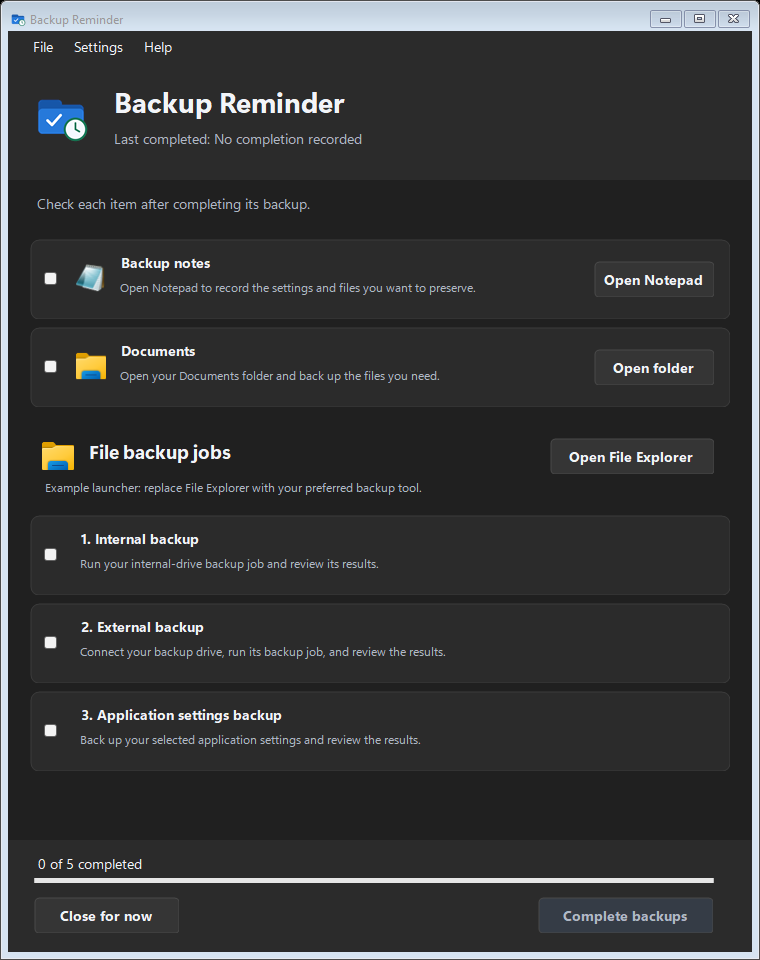
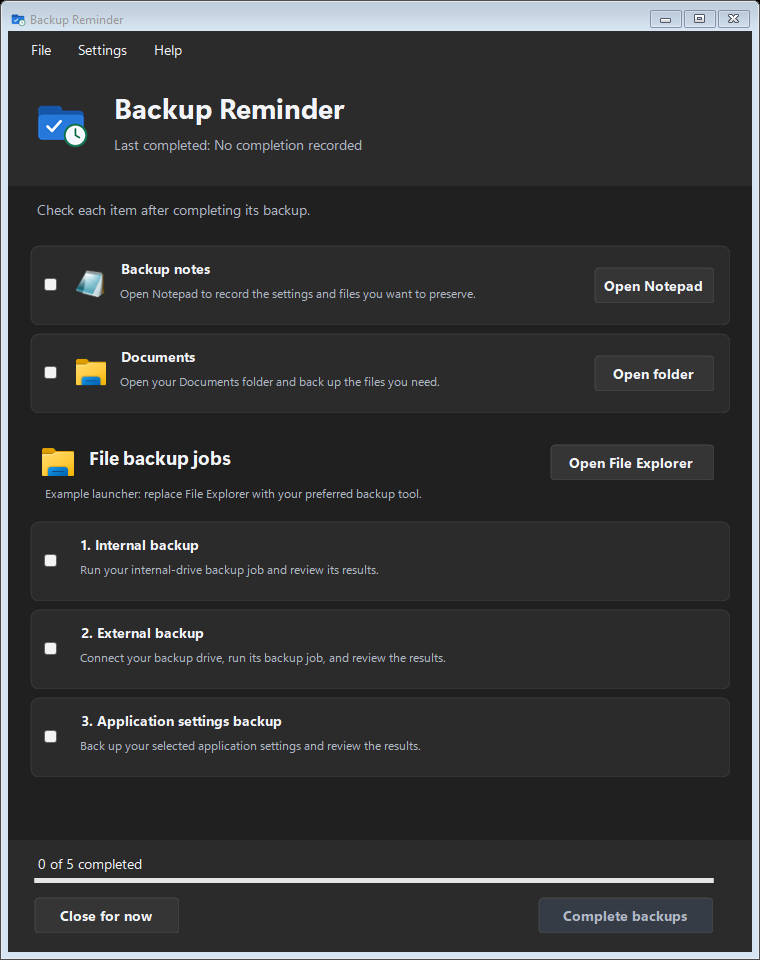
Release v0.3.0 with refined menu styling

diff --git a/src/BackupReminder/ModernControls.cs b/src/BackupReminder/ModernControls.cs
@@ -332,19 +332,105 @@ internal sealed class ScheduleDateTimeInput:Panel
 }
 internal sealed class AppMenuRenderer(ProfessionalColorTable colors,Color accent):ToolStripProfessionalRenderer(colors)
 {
+    internal static void ApplySpacing(ToolStrip strip)
+    {
+        int Scale(int value)=>(int)Math.Round(value*strip.DeviceDpi/96f);
+        strip.Padding=strip is ToolStripDropDown?new Padding(Scale(6)):new Padding(Scale(10),Scale(4),0,Scale(4));
+        strip.ImageScalingSize=new Size(Scale(24),Scale(18));
+        foreach(ToolStripItem item in strip.Items)
+        {
+            if(item is ToolStripSeparator)continue;
+            item.Padding=strip is ToolStripDropDown?new Padding(Scale(12),Scale(9),Scale(20),Scale(9)):new Padding(Scale(7),Scale(3),Scale(7),Scale(3));
+            if(item is ToolStripMenuItem entry&&entry.HasDropDownItems)ApplySpacing(entry.DropDown);
+        }
+    }
+    protected override void OnRenderToolStripBackground(ToolStripRenderEventArgs e)
+    {
+        e.Graphics.Clear(SystemInformation.HighContrast?SystemColors.Menu:e.ToolStrip.BackColor);
+    }
+    protected override void OnRenderImageMargin(ToolStripRenderEventArgs e) { }
+    protected override void OnRenderToolStripBorder(ToolStripRenderEventArgs e)
+    {
+        if(e.ToolStrip is not ToolStripDropDown dropdown)return;
+        Color border=SystemInformation.HighContrast?SystemColors.WindowText:ControlPaint.Light(e.ToolStrip?.BackColor??ColorTable.ToolStripDropDownBackground,.18f);
+        using var pen=new Pen(border);
+        e.Graphics.DrawRectangle(pen,0,0,dropdown.Width-1,dropdown.Height-1);
+    }
+    protected override void OnRenderMenuItemBackground(ToolStripItemRenderEventArgs e)
+    {
+        if(!e.Item.Enabled||!(e.Item.Selected||e.Item.Pressed))return;
+        bool highContrast=SystemInformation.HighContrast;
+        using var fill=new SolidBrush(highContrast?SystemColors.Highlight:ColorTable.MenuItemSelected);
+        float scale=(e.ToolStrip?.DeviceDpi??96)/96f;
+        var bounds=new RectangleF(2*scale,scale,VisibleItemWidth(e.Item)-4*scale,e.Item.Height-2*scale);
+        if(bounds.Width<=0||bounds.Height<=0)return;
+        var state=e.Graphics.Save();
+        e.Graphics.SmoothingMode=SmoothingMode.AntiAlias;
+        using var shape=WindowStyle.Round(bounds,4*scale);
+        e.Graphics.FillPath(fill,shape);
+        e.Graphics.Restore(state);
+    }
+    protected override void OnRenderSeparator(ToolStripSeparatorRenderEventArgs e)
+    {
+        float scale=(e.ToolStrip?.DeviceDpi??96)/96f;
+        Color color=SystemInformation.HighContrast?SystemColors.WindowText:ControlPaint.Light(e.ToolStrip?.BackColor??ColorTable.ToolStripDropDownBackground,.18f);
+        using var pen=new Pen(color);
+        float y=e.Item.Height/2f;
+        e.Graphics.DrawLine(pen,9*scale,y,VisibleItemWidth(e.Item)-9*scale,y);
+    }
+    protected override void OnRenderItemText(ToolStripItemTextRenderEventArgs e)
+    {
+        if(!e.Item.Enabled)e.TextColor=SystemInformation.HighContrast?SystemColors.GrayText:ControlPaint.Light(e.Item.ForeColor,.45f);
+        else if(SystemInformation.HighContrast)e.TextColor=e.Item.Selected||e.Item.Pressed?SystemColors.HighlightText:SystemColors.MenuText;
+        float scale=(e.ToolStrip?.DeviceDpi??96)/96f;
+        var text=e.TextRectangle;
+        if(e.ToolStrip is ToolStripDropDown)
+        {
+            int left=(int)Math.Round(46*scale),right=(int)Math.Round(20*scale);
+            text=new Rectangle(left,0,Math.Max(1,VisibleItemWidth(e.Item)-left-right),e.Item.Height);
+        }
+        else text=new Rectangle(text.X,0,text.Width,e.Item.Height);
+        e.TextRectangle=text;
+        e.TextFormat=(e.TextFormat&~(TextFormatFlags.Top|TextFormatFlags.Bottom))|TextFormatFlags.VerticalCenter|TextFormatFlags.SingleLine;
+        base.OnRenderItemText(e);
+    }
+    static int VisibleItemWidth(ToolStripItem item)=>Math.Min(item.Width,(item.Owner?.ClientSize.Width??item.Width)-item.Bounds.Left);
+    static Rectangle GlyphBounds(ToolStripItem item)
+    {
+        float scale=(item.Owner?.DeviceDpi??96)/96f;
+        int size=(int)Math.Round(18*scale);
+        return new Rectangle((int)Math.Round(14*scale),(item.Height-size)/2,size,size);
+    }
+    protected override void OnRenderItemImage(ToolStripItemImageRenderEventArgs e)
+    {
+        if(e.Image is null)return;
+        var bounds=GlyphBounds(e.Item);
+        if(!e.Item.Enabled)
+        {
+            using var disabled=new Bitmap(e.Image,bounds.Size);
+            ControlPaint.DrawImageDisabled(e.Graphics,disabled,bounds.X,bounds.Y,e.Item.BackColor);
+            return;
+        }
+        var state=e.Graphics.Save();
+        e.Graphics.InterpolationMode=InterpolationMode.HighQualityBicubic;
+        e.Graphics.PixelOffsetMode=PixelOffsetMode.HighQuality;
+        e.Graphics.DrawImage(e.Image,bounds);
+        e.Graphics.Restore(state);
+    }
     protected override void OnRenderItemCheck(ToolStripItemImageRenderEventArgs e)
     {
-        var bounds=e.ImageRectangle;e.Graphics.SmoothingMode=SmoothingMode.AntiAlias;
-        using var pen=new Pen(SystemInformation.HighContrast?SystemColors.MenuText:accent,2);
+        var bounds=GlyphBounds(e.Item);e.Graphics.SmoothingMode=SmoothingMode.AntiAlias;
+        using var pen=new Pen(SystemInformation.HighContrast?(e.Item.Selected?SystemColors.HighlightText:SystemColors.MenuText):accent,2);
         float unit=Math.Max(1,Math.Min(bounds.Width,bounds.Height)/16f);
         float x=bounds.Left+(bounds.Width-11*unit)/2,y=bounds.Top+bounds.Height/2f;
         e.Graphics.DrawLines(pen,[new PointF(x,y),new PointF(x+4*unit,y+4*unit),new PointF(x+11*unit,y-4*unit)]);
     }
     protected override void OnRenderArrow(ToolStripArrowRenderEventArgs e)
     {
-        var bounds=e.ArrowRectangle;float x=bounds.Left+bounds.Width/2f,y=bounds.Top+bounds.Height/2f;
+        var bounds=e.ArrowRectangle;float x=bounds.Left+bounds.Width/2f,y=(e.Item?.Height??bounds.Height)/2f;
+        if(e.Item is not null)x=Math.Min(x,VisibleItemWidth(e.Item)-12*(e.Item.Owner?.DeviceDpi??96)/96f);
         float size=Math.Max(2,Math.Min(bounds.Width,bounds.Height)/4f);
-        var color=SystemInformation.HighContrast?SystemColors.MenuText:e.Item?.ForeColor??e.ArrowColor;
+        var color=e.Item is {Enabled:false}?SystemColors.GrayText:SystemInformation.HighContrast?(e.Item?.Selected==true?SystemColors.HighlightText:SystemColors.MenuText):e.Item?.ForeColor??e.ArrowColor;
         using var pen=new Pen(color,1.5f);e.Graphics.SmoothingMode=SmoothingMode.AntiAlias;
         PointF[] points=e.Direction switch
         {

diff --git a/src/BackupReminder/MenuGlyphs.cs b/src/BackupReminder/MenuGlyphs.cs
@@ -2,45 +2,46 @@ using System.Drawing.Drawing2D;
 
 namespace BackupReminder;
 
-// Original line artwork, rendered locally in the current menu text color.
+// Original line artwork; shared command shapes match BroadcastForge.
 internal static class MenuGlyphs
 {
     internal static Bitmap Create(string glyph,Color color)
     {
-        var image=new Bitmap(32,32);
-        using var graphics=Graphics.FromImage(image);graphics.ScaleTransform(2,2);
+        var image=new Bitmap(64,64);
+        using var graphics=Graphics.FromImage(image);graphics.ScaleTransform(4,4);
         graphics.SmoothingMode=SmoothingMode.AntiAlias;
-        using var pen=new Pen(color,1.25f) {StartCap=LineCap.Round,EndCap=LineCap.Round,LineJoin=LineJoin.Round};
+        using var pen=new Pen(color,1.35f) {StartCap=LineCap.Round,EndCap=LineCap.Round,LineJoin=LineJoin.Round};
         using var fill=new SolidBrush(color);
         void Line(float x1,float y1,float x2,float y2)=>graphics.DrawLine(pen,x1,y1,x2,y2);
-        void Circle()=>graphics.DrawEllipse(pen,1.75f,1.75f,12.5f,12.5f);
+        void Lines(params PointF[] points)=>graphics.DrawLines(pen,points);
+        void Circle()=>graphics.DrawEllipse(pen,1,1,14,14);
         switch(glyph)
         {
             case "checklist":
-                using(var border=WindowStyle.Round(new RectangleF(2,1.75f,12,12.5f),1.5f))graphics.DrawPath(pen,border);
-                graphics.DrawLines(pen,[new PointF(4,5),new PointF(5,6),new PointF(7,4)]);Line(9,5,12,5);
-                graphics.DrawLines(pen,[new PointF(4,10),new PointF(5,11),new PointF(7,9)]);Line(9,10,12,10);break;
+                using(var border=WindowStyle.Round(new RectangleF(2,1,12,14),1.5f))graphics.DrawPath(pen,border);
+                Lines(new(4,5),new(5,6),new(7,4));Line(10,5,12,5);
+                Lines(new(4,11),new(5,12),new(7,10));Line(10,11,12,11);break;
             case "exit":
-                graphics.DrawLines(pen,[new PointF(7,2),new PointF(2,2),new PointF(2,14),new PointF(7,14)]);
-                Line(6,8,14,8);graphics.DrawLines(pen,[new PointF(11,5),new PointF(14,8),new PointF(11,11)]);break;
+                Lines(new(6,1),new(1,1),new(1,15),new(6,15));
+                Line(6,8,15,8);Lines(new(11,4),new(15,8),new(11,12));break;
             case "clock":
-                Circle();graphics.DrawLines(pen,[new PointF(8,4),new PointF(8,8),new PointF(11,10)]);break;
+                Circle();Lines(new(8,4),new(8,8),new(11,10));break;
             case "appearance":
-                Circle();graphics.FillPie(fill,3.5f,3.5f,9,9,270,180);Line(8,3.5f,8,12.5f);break;
+                Circle();graphics.FillPie(fill,1,1,14,14,270,180);break;
             case "backup":
             case "restore":
-                graphics.DrawLines(pen,[new PointF(2,6),new PointF(2,14),new PointF(14,14),new PointF(14,6)]);
-                Line(8,2,8,10);
-                graphics.DrawLines(pen,glyph=="backup"?[new PointF(5,7),new PointF(8,10),new PointF(11,7)]:[new PointF(5,5),new PointF(8,2),new PointF(11,5)]);break;
+                Lines(new(2,9),new(2,15),new(14,15),new(14,9));Line(8,1,8,11);
+                if(glyph=="backup")Lines(new(4,7),new(8,11),new(12,7));
+                else Lines(new(4,5),new(8,1),new(12,5));break;
             case "folder":
-                graphics.DrawLines(pen,[new PointF(2,5),new PointF(2,3),new PointF(6,3),new PointF(8,5),new PointF(14,5),new PointF(14,13),new PointF(2,13),new PointF(2,5),new PointF(14,5)]);break;
+                Lines(new(1,4),new(1,2),new(6,2),new(8,4),new(15,4),new(15,14),new(1,14),new(1,4));break;
             case "help":
-                Circle();graphics.DrawArc(pen,5.5f,4,5,4,180,250);Line(8,8,8,9);graphics.FillEllipse(fill,7.4f,11,1.2f,1.2f);break;
+                Circle();graphics.DrawBezier(pen,new(5,5),new(5,1),new(13,3),new(9,7));Line(9,7,8,9);Line(8,12,8,12.2f);break;
             case "report":
-                graphics.DrawPolygon(pen,[new PointF(2,2),new PointF(14,2),new PointF(14,11),new PointF(7,11),new PointF(3,14),new PointF(3,11),new PointF(2,11)]);
-                Line(8,4.5f,8,7);graphics.FillEllipse(fill,7.4f,8.5f,1.2f,1.2f);break;
+                Lines(new(1,2),new(15,2),new(15,11),new(7,11),new(3,15),new(3,11),new(1,11),new(1,2));
+                Line(8,5,8,7);Line(8,9,8,9.2f);break;
             case "about":
-                Circle();graphics.FillEllipse(fill,7.35f,4,1.3f,1.3f);Line(8,7,8,11.5f);break;
+                Circle();Line(8,7,8,12);Line(8,4,8,4.2f);break;
             default:throw new ArgumentException("Unknown menu glyph",nameof(glyph));
         }
         return image;

diff --git a/src/BackupReminder/MainWindow.cs b/src/BackupReminder/MainWindow.cs
@@ -39,6 +39,7 @@ internal sealed partial class MainWindow : Form
     Color Muted => ColorTranslator.FromHtml(dark ? "#B0B8C6" : "#596779");
     Color Accent => ColorTranslator.FromHtml(dark ? "#78B7FF" : "#2468BB");
     Color ButtonColor => ColorTranslator.FromHtml(dark ? "#353535" : "#FAFAFA");
+    Color MenuHover => ColorTranslator.FromHtml(dark ? "#414141" : "#EEEEEE");
     Color DisabledColor => ColorTranslator.FromHtml(dark ? "#353C46" : "#DDE3EB");
 
     public MainWindow(Profile profile, Options options,IReminderScheduler? scheduler=null,IReminderAttention? attention=null)
@@ -222,7 +223,7 @@ internal sealed partial class MainWindow : Form
         WindowStyle.Apply(this,dark);
         foreach (ToolStripMenuItem item in appearanceMenu.DropDownItems) item.Checked = (string?)item.Tag == choice;
         RefreshMenuGlyphs();
-        var renderer=new AppMenuRenderer(new MenuColors(Surface,ButtonColor){UseSystemColors=false},Accent);
+        var renderer=new AppMenuRenderer(new MenuColors(Surface,MenuHover){UseSystemColors=false},Accent);
         menu.Renderer=renderer;
         void ColorMenus(ToolStripItemCollection entries)
         {
@@ -237,7 +238,7 @@ internal sealed partial class MainWindow : Form
                 }
             }
         }
-        ColorMenus(menu.Items); UpdateProgress(); Invalidate(true);
+        ColorMenus(menu.Items); AppMenuRenderer.ApplySpacing(menu); UpdateProgress(); Invalidate(true);
     }
     void ApplyTheme(Control control)
     {
@@ -248,7 +249,7 @@ internal sealed partial class MainWindow : Form
         if (control is LinkLabel link) { link.LinkColor = Accent; link.ActiveLinkColor = Accent; }
         if(control is RoundedPanel card) { card.BorderColor=ColorTranslator.FromHtml(dark?"#3B3B3B":"#E5E5E5");card.Invalidate(); }
         if(control is RoundedButton rounded) { rounded.BorderColor=ColorTranslator.FromHtml(dark?"#4A4A4A":"#DCDCDC");rounded.DisabledTextColor=Muted;rounded.Invalidate(); }
-        if(control is EditorPicker picker) {picker.BackColor=WindowColor;picker.ForeColor=TextColor;picker.Font=body;picker.PickerRenderer=new AppMenuRenderer(new MenuColors(WindowColor,ButtonColor){UseSystemColors=false},Accent);}
+        if(control is EditorPicker picker) {picker.BackColor=WindowColor;picker.ForeColor=TextColor;picker.Font=body;picker.PickerRenderer=new AppMenuRenderer(new MenuColors(WindowColor,MenuHover){UseSystemColors=false},Accent);}
         if(control is ScheduleDateTimeInput dateTime)dateTime.ApplyColors(WindowColor,ButtonColor,TextColor,Muted);
         if(control is ThemeNumberInput number)number.ApplyColors(WindowColor,ButtonColor,TextColor,Muted,Accent);
         if(control is TextBoxBase or ListBox or ComboBox or NumericUpDown) {control.BackColor=WindowColor;control.ForeColor=TextColor;}

diff --git a/src/BackupReminder/ChecklistEditor.cs b/src/BackupReminder/ChecklistEditor.cs
@@ -378,7 +378,7 @@ internal sealed class EditorPicker:RoundedButton
             var item=new ToolStripMenuItem(choices[i].Label){Checked=i==selection,BackColor=BackColor,ForeColor=ForeColor};
             item.Click+=(_,_)=>SelectedIndex=index;menu.Items.Add(item);
         }
-        ContextMenuStrip=menu;menu.Show(this,new Point(0,Height));
+        AppMenuRenderer.ApplySpacing(menu);ContextMenuStrip=menu;menu.Show(this,new Point(0,Height));
     }
     protected override void OnKeyDown(KeyEventArgs e)
     {

diff --git a/src/BackupReminder/InformationWindows.cs b/src/BackupReminder/InformationWindows.cs
@@ -12,7 +12,7 @@ internal sealed partial class MainWindow
     void AddMenuGlyph(ToolStripItem item,string glyph)=>menuGlyphs.Add(item,glyph);
     void RefreshMenuGlyphs()
     {
-        var color=SystemInformation.HighContrast?SystemColors.MenuText:TextColor;
+        var color=SystemInformation.HighContrast?SystemColors.MenuText:ColorTranslator.FromHtml(dark?"#D2D2D2":"#4B5563");
         foreach(var (item,glyph) in menuGlyphs)
         {
             var key=(glyph,color.ToArgb());

diff --git a/README.md b/README.md
@@ -1,10 +1,10 @@
 # Backup Reminder
 
-[![Backup Reminder: A checklist and reminder for the backups you do yourself](assets/backup-reminder-banner.png)](https://github.com/DGX-Development/Backup-Reminder/releases/tag/v0.2.1)
+[![Backup Reminder: A checklist and reminder for the backups you do yourself](assets/backup-reminder-banner.png)](https://github.com/DGX-Development/Backup-Reminder/releases/tag/v0.3.0)
 
 A Windows checklist for the backups you prefer to do yourself. Open your tools, perform each backup, review the results, then check it off.
 
-**Version: 0.2.1.** Portable Windows x64 app, tested on Windows 11. See the [release history](CHANGELOG.md).
+**Version: 0.3.0.** Portable Windows x64 app, tested on Windows 11. See the [release history](CHANGELOG.md).
 
 ## Screenshots
 
@@ -21,7 +21,7 @@ The generic starter has two standalone examples and a group with three independe
 - Saves partial progress and records completion when every item is checked.
 - Keeps data profiles separate and activates an existing window on relaunch.
 - Includes a checklist editor, searchable Help, About, and System/Light/Dark appearance choices.
-- Uses softly rounded cards/buttons and Windows 11 window preferences where supported.
+- Uses softly rounded cards/buttons, refined menus with consistent line icons, and Windows 11 window preferences where supported.
 
 The project started with a simple need: some backups are best performed manually, but remembering every step is easy to overlook. The optional Windows reminder opens this checklist on your chosen schedule.
 
@@ -29,7 +29,7 @@ A completed checklist records your confirmation. It does not independently verif
 
 ## Getting started
 
-Download [Backup-Reminder-0.2.1-win-x64.zip](https://github.com/DGX-Development/Backup-Reminder/releases/download/v0.2.1/Backup-Reminder-0.2.1-win-x64.zip) from the [release page](https://github.com/DGX-Development/Backup-Reminder/releases/tag/v0.2.1), extract the ZIP to a permanent folder, and double-click **Backup-Reminder.exe**. The Windows x64 build includes its .NET runtime and does not require PowerShell or a separately installed .NET runtime. Keep the included app license and Microsoft runtime licenses/notices with it.
+Download [Backup-Reminder-0.3.0-win-x64.zip](https://github.com/DGX-Development/Backup-Reminder/releases/download/v0.3.0/Backup-Reminder-0.3.0-win-x64.zip) from the [release page](https://github.com/DGX-Development/Backup-Reminder/releases/tag/v0.3.0), extract the ZIP to a permanent folder, and double-click **Backup-Reminder.exe**. The Windows x64 build includes its .NET runtime and does not require PowerShell or a separately installed .NET runtime. Keep the included app license and Microsoft runtime licenses/notices with it.
 
 There is no installer or automatic updater. Enable optional reminders in Settings; installing or updating does not create a reminder automatically.
 

diff --git a/CHANGELOG.md b/CHANGELOG.md
@@ -1,5 +1,12 @@
 # Changelog
 
+## 0.3.0 - 2026-10-29
+
+- Refine File, Settings and Help menu spacing with a more compact menu bar.
+- Refresh menu icons, align icons and labels, and improve selection highlights, separators and popup borders in light and dark appearances.
+- Apply matching spacing and selection styling to checklist and reminder dropdowns.
+- Preserve existing checklist, reminder, configuration and keyboard behavior.
+
 ## 0.2.1 - 2026-10-18
 
 - Show Developer Website in About, with DGX.digitalguy.me linking to the main developer website.
